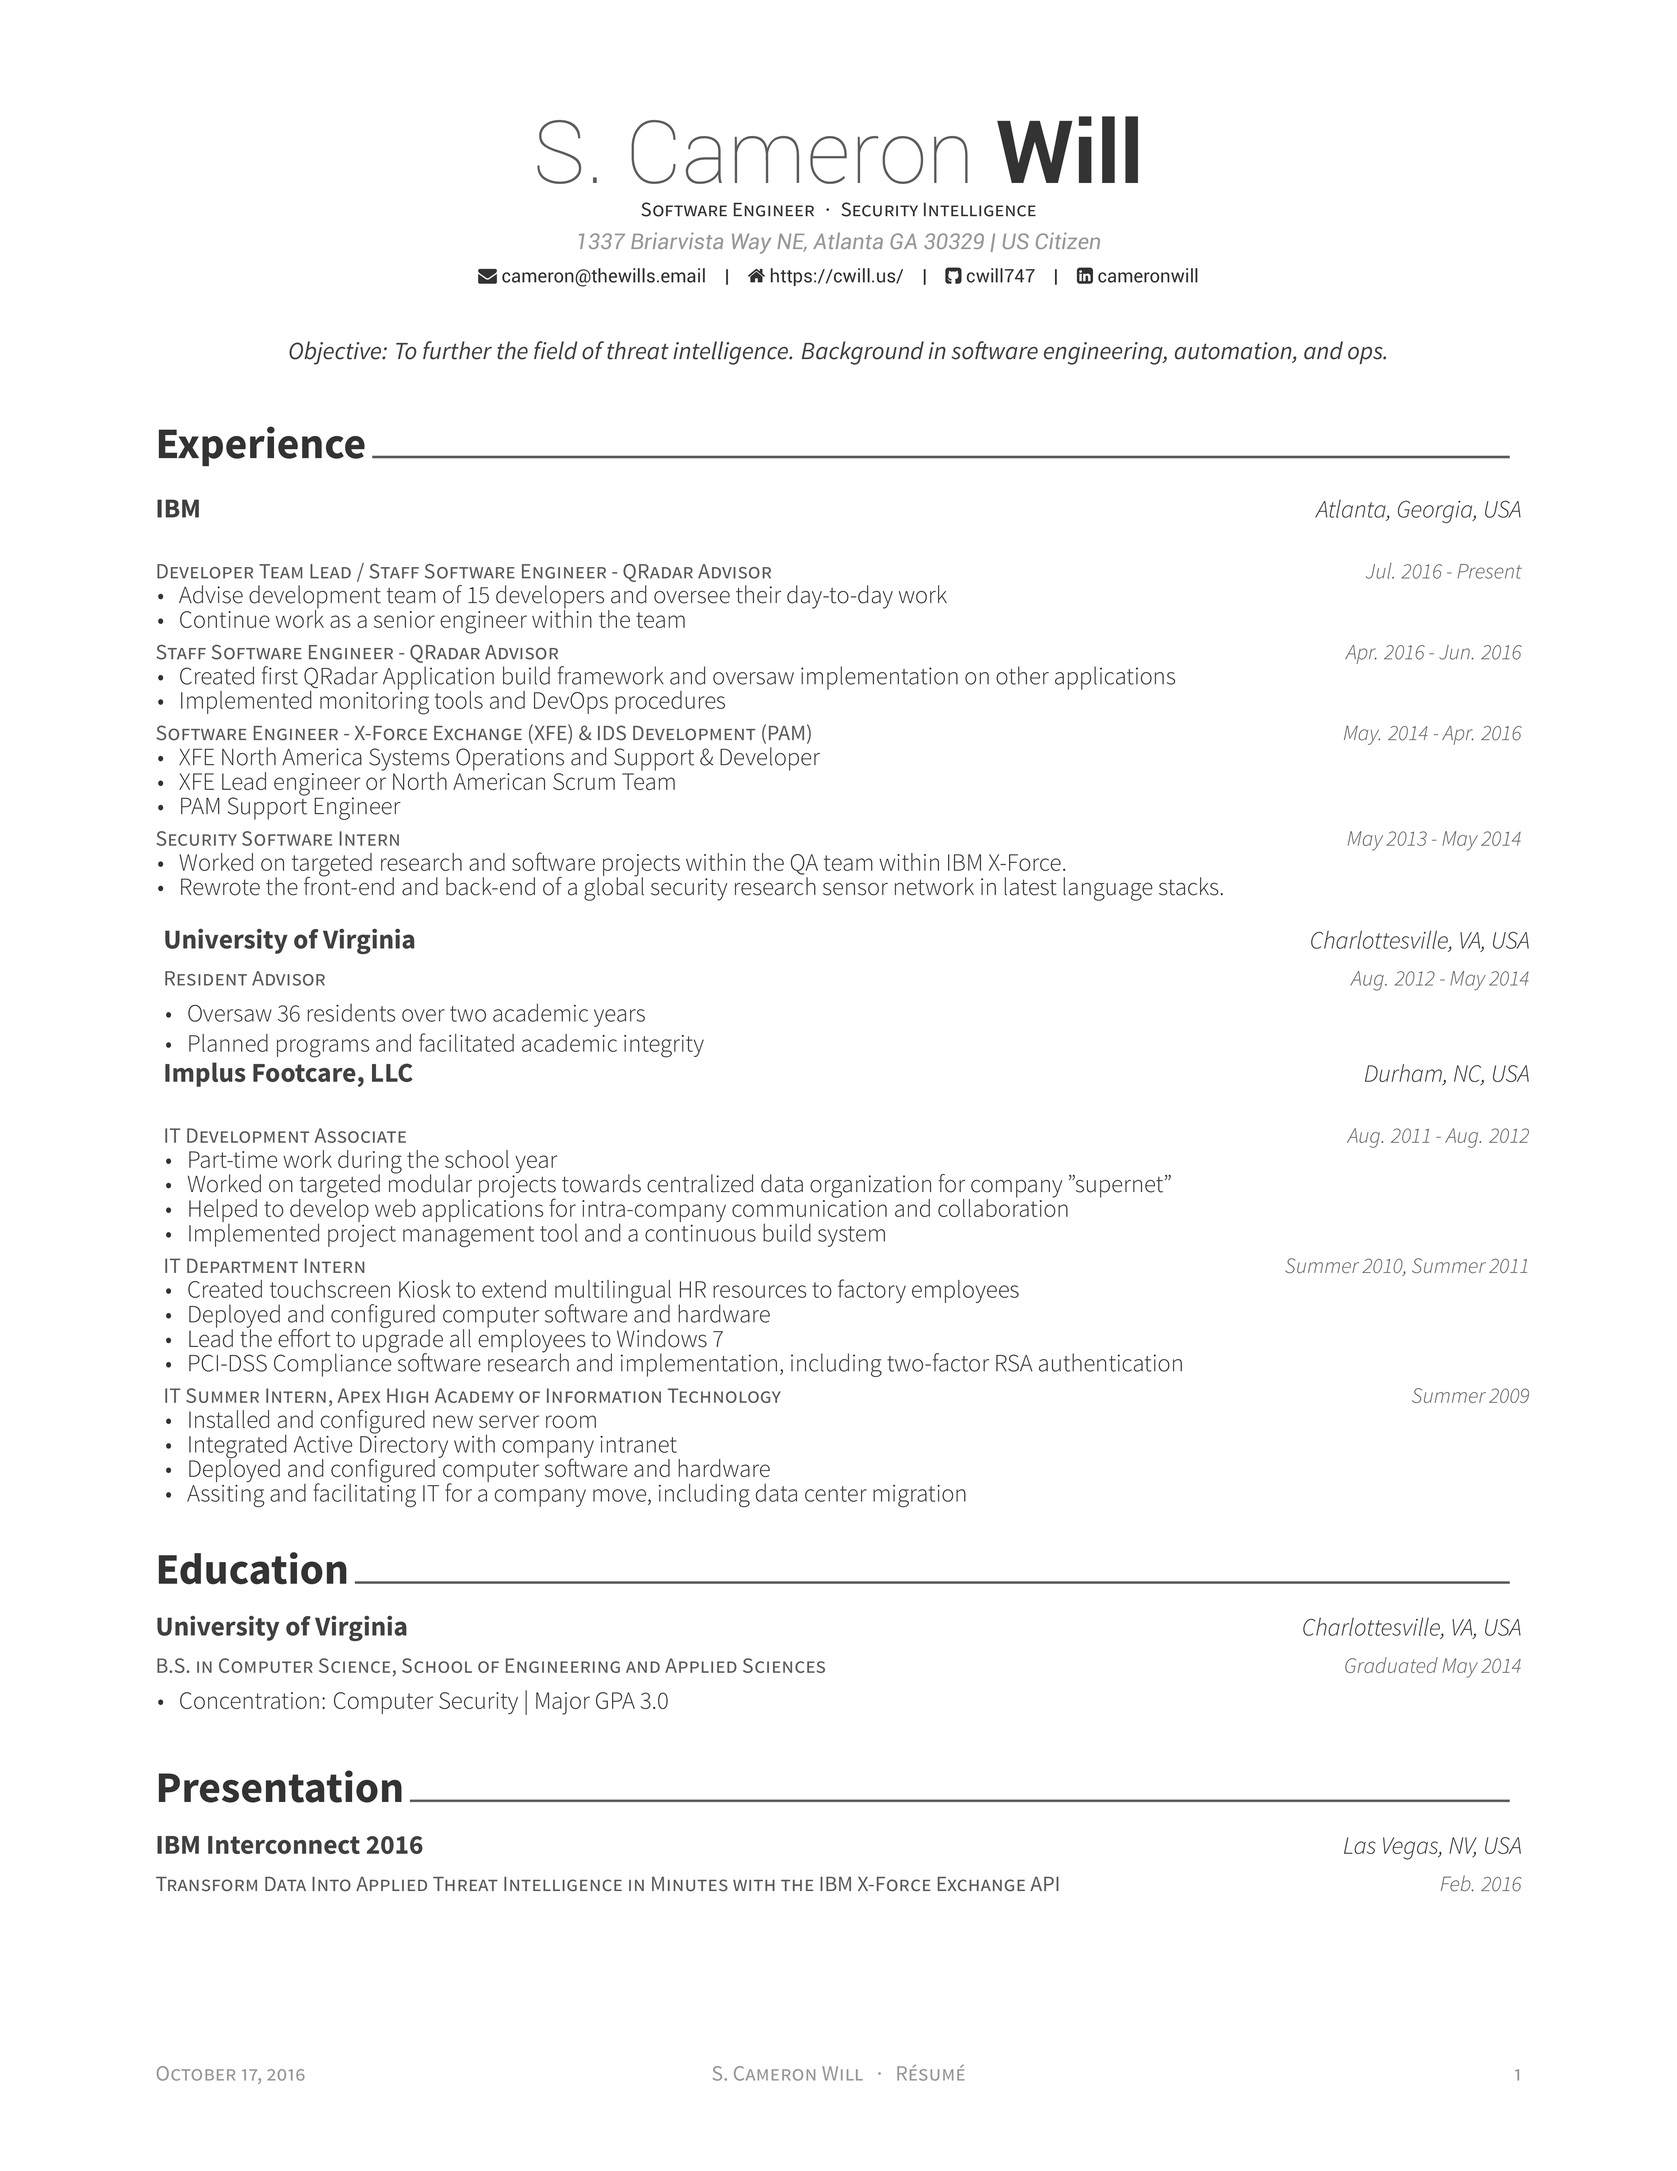
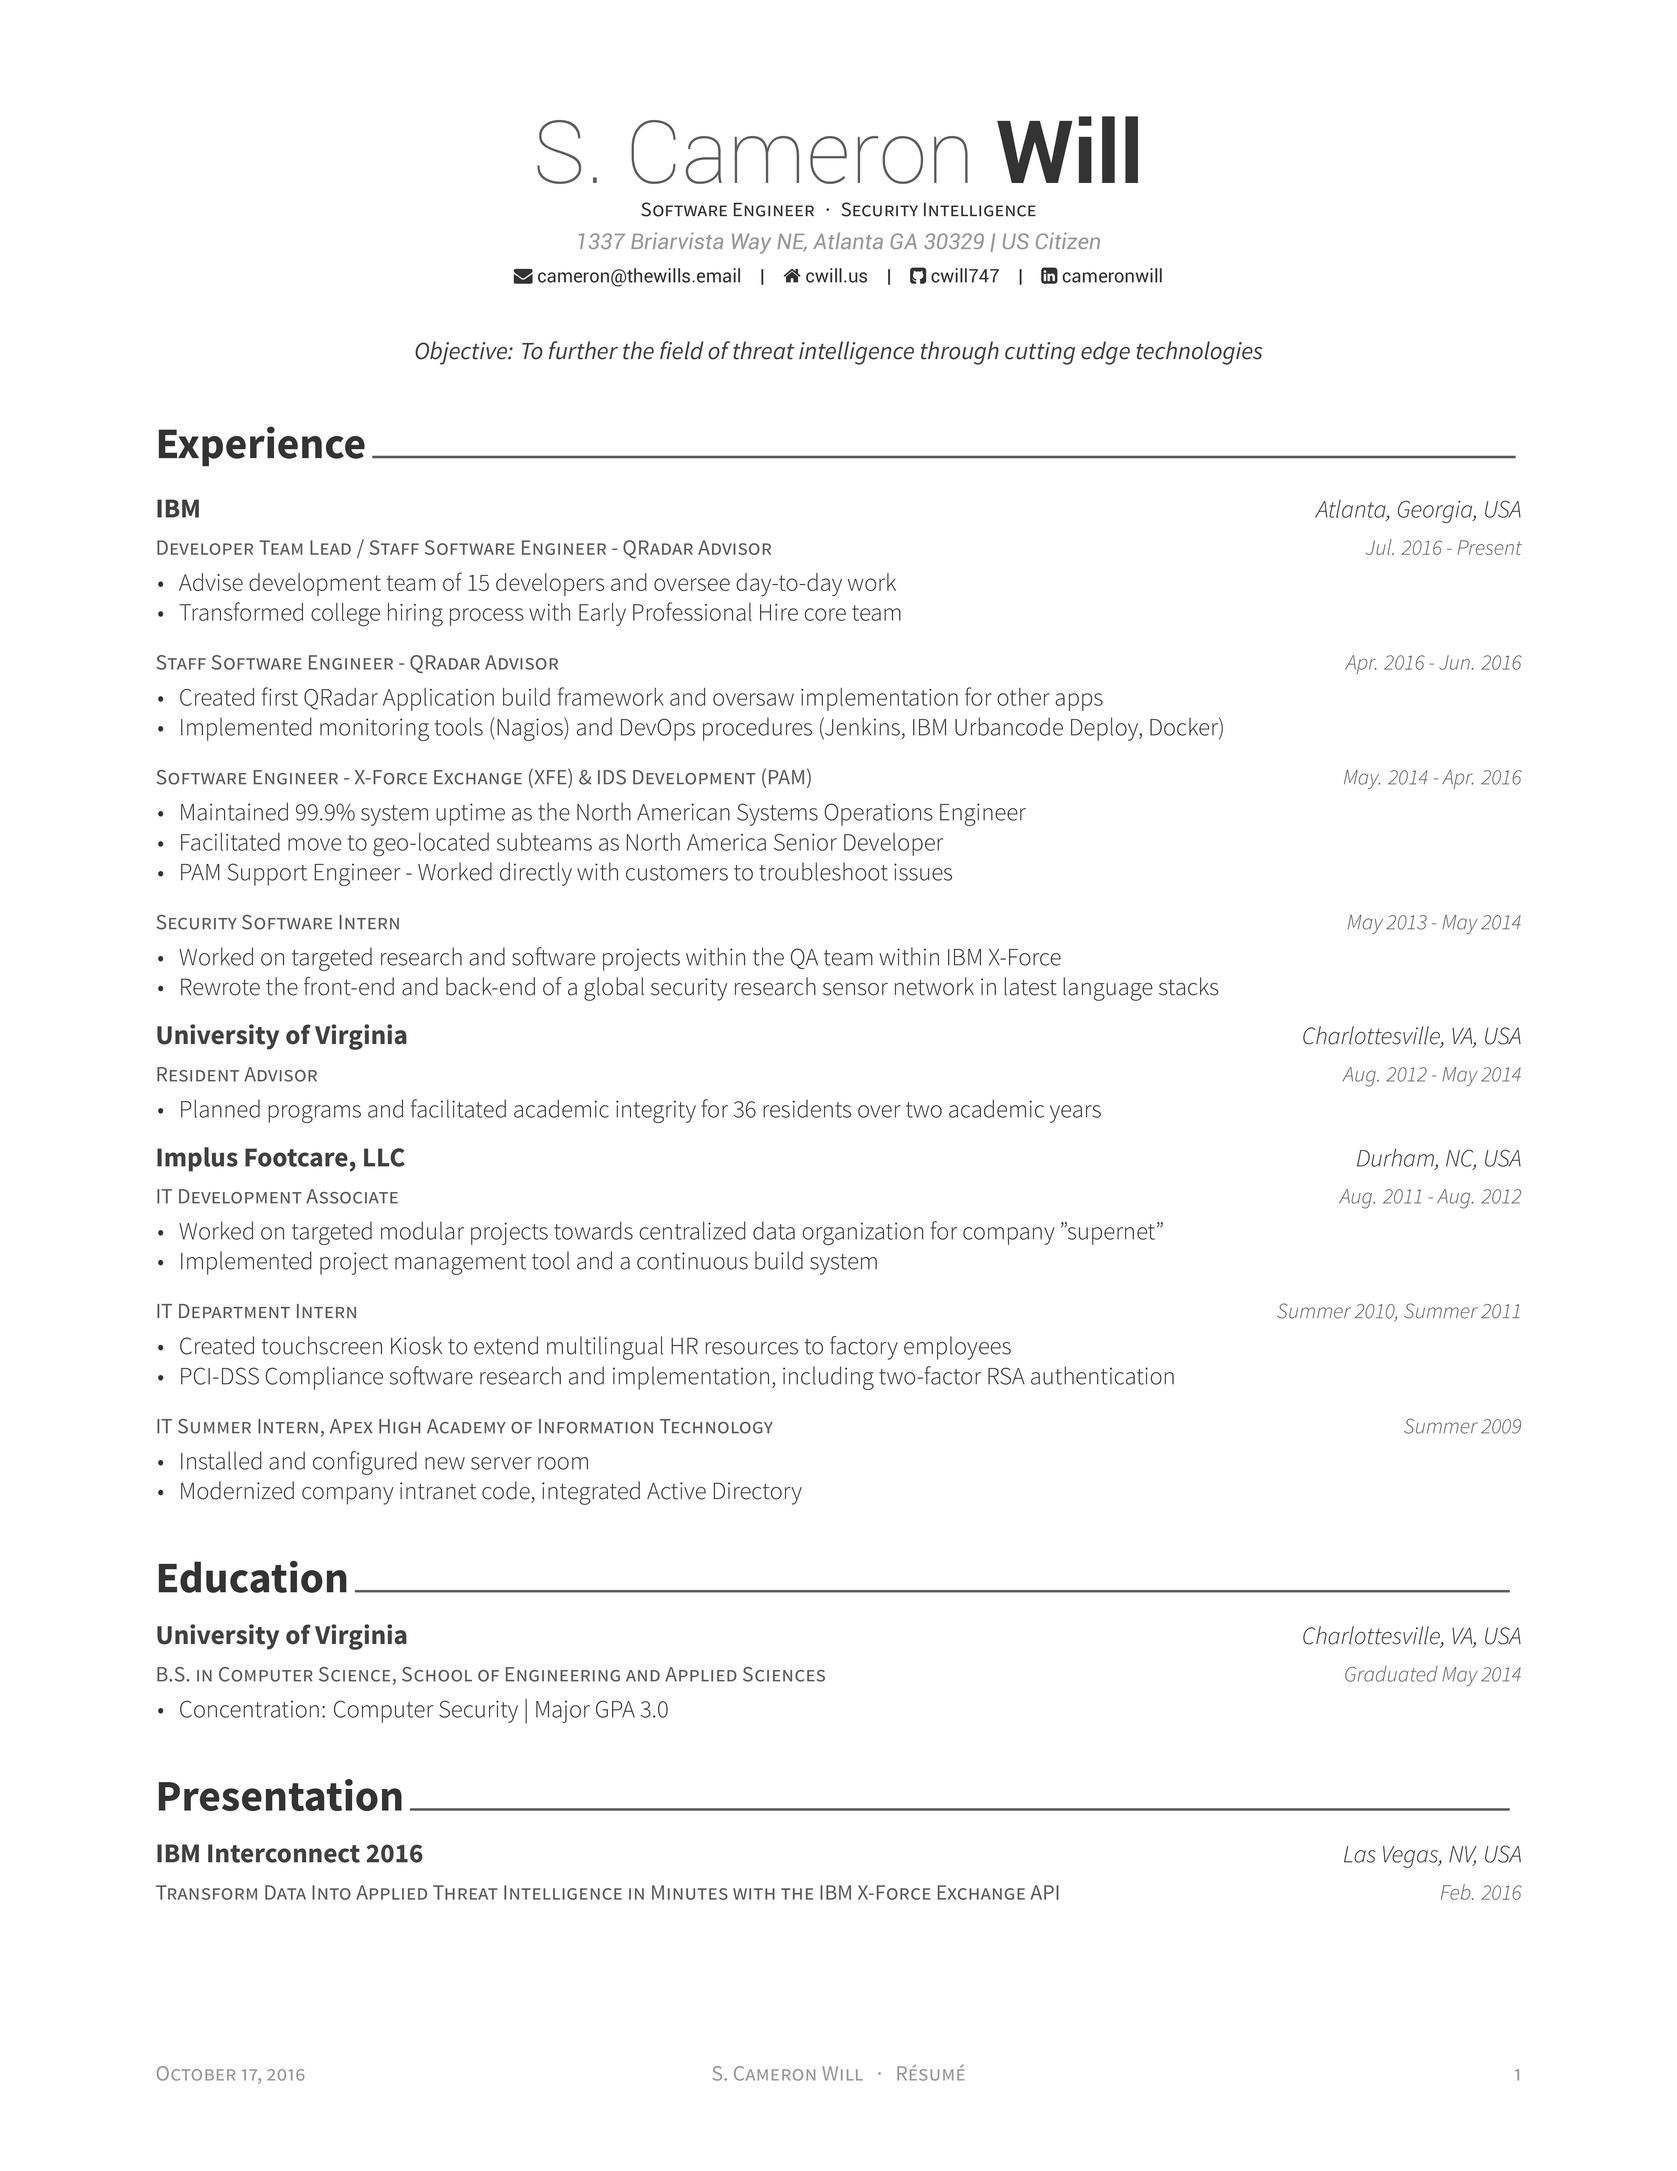
[fix] Fix some wording for job descriptions

diff --git a/resume/experience.tex b/resume/experience.tex
@@ -16,8 +16,8 @@
     {Jul. 2016 - Present} % Date(s)
     {
       \begin{cvitems}
-        \item {Advise development team of 15 developers and oversee their day-to-day work}
-        \item {Continue work as a senior engineer within the team}
+        \item {Advise development team of 15 developers and oversee day-to-day work}
+        \item {Transformed college hiring process with Early Professional Hire core team}
       \end{cvitems}
     }
 
@@ -28,8 +28,8 @@
     {Apr. 2016 - Jun. 2016}
     {
       \begin{cvitems}
-        \item {Created first QRadar Application build framework and oversaw implementation on other applications}
-        \item {Implemented monitoring tools and DevOps procedures}
+        \item {Created first QRadar Application build framework and oversaw implementation for other apps}
+        \item {Implemented monitoring tools (Nagios) and DevOps procedures (Jenkins, IBM Urbancode Deploy, Docker)}
       \end{cvitems}
     }
 
@@ -40,9 +40,9 @@
     {May. 2014 - Apr. 2016}
     {
     \begin{cvitems}
-      \item {XFE North America Systems Operations and Support \& Developer}
-      \item {XFE Lead engineer or North American Scrum Team}
-      \item {PAM Support Engineer}
+      \item {Maintained 99.9\% system uptime as the North American Systems Operations Engineer}
+      \item {Facilitated move to geo-located subteams as North America Senior Developer}
+      \item {PAM Support Engineer - Worked directly with customers to troubleshoot issues}
     \end{cvitems}
     }
 
@@ -53,12 +53,12 @@
     {May 2013 - May 2014}
     {
     \begin{cvitems}
-      \item {Worked on targeted research and software projects within the QA team within IBM X-Force.}
-      \item {Rewrote the front-end and back-end of a global security research sensor network in latest language stacks.}
+      \item {Worked on targeted research and software projects within the QA team within IBM X-Force}
+      \item {Rewrote the front-end and back-end of a global security research sensor network in latest language stacks}
     \end{cvitems}
     }
-%---------------------------------------------------------
 
+%---------------------------------------------------------
   \cventry
     {Resident Advisor}
     {University of Virginia}
@@ -66,12 +66,11 @@
     {Aug. 2012 - May 2014}
     {
       \begin{cvitems}
-        \item {Oversaw 36 residents over two academic years}
-	    \item {Planned programs and facilitated academic integrity}
+	      \item {Planned programs and facilitated academic integrity for 36 residents over two academic years}
       \end{cvitems}
     }
-%---------------------------------------------------------
 
+%---------------------------------------------------------
   \cventry
     {IT Development Associate}
     {Implus Footcare, LLC}
@@ -79,9 +78,7 @@
     {Aug. 2011 - Aug. 2012}
     {
       \begin{cvitems}
-        \item Part-time work during the school year
         \item Worked on targeted modular projects towards centralized data organization for company "supernet"
-        \item Helped to develop web applications for intra-company communication and collaboration
         \item Implemented project management tool and a continuous build system
       \end{cvitems}
     }
@@ -94,8 +91,6 @@
   {
     \begin{cvitems}
       \item Created touchscreen Kiosk to extend multilingual HR resources to factory employees
-      \item Deployed and configured computer software and hardware
-      \item Lead the effort to upgrade all employees to Windows 7
       \item PCI-DSS Compliance software research and implementation, including two-factor RSA authentication
     \end{cvitems}
   }
@@ -108,9 +103,7 @@
   {
     \begin{cvitems}
       \item Installed and configured new server room
-      \item Integrated Active Directory with company intranet
-      \item Deployed and configured computer software and hardware
-      \item Assiting and facilitating IT for a company move, including data center migration
+      \item Modernized company intranet code, integrated Active Directory
     \end{cvitems}
   }
 %---------------------------------------------------------
